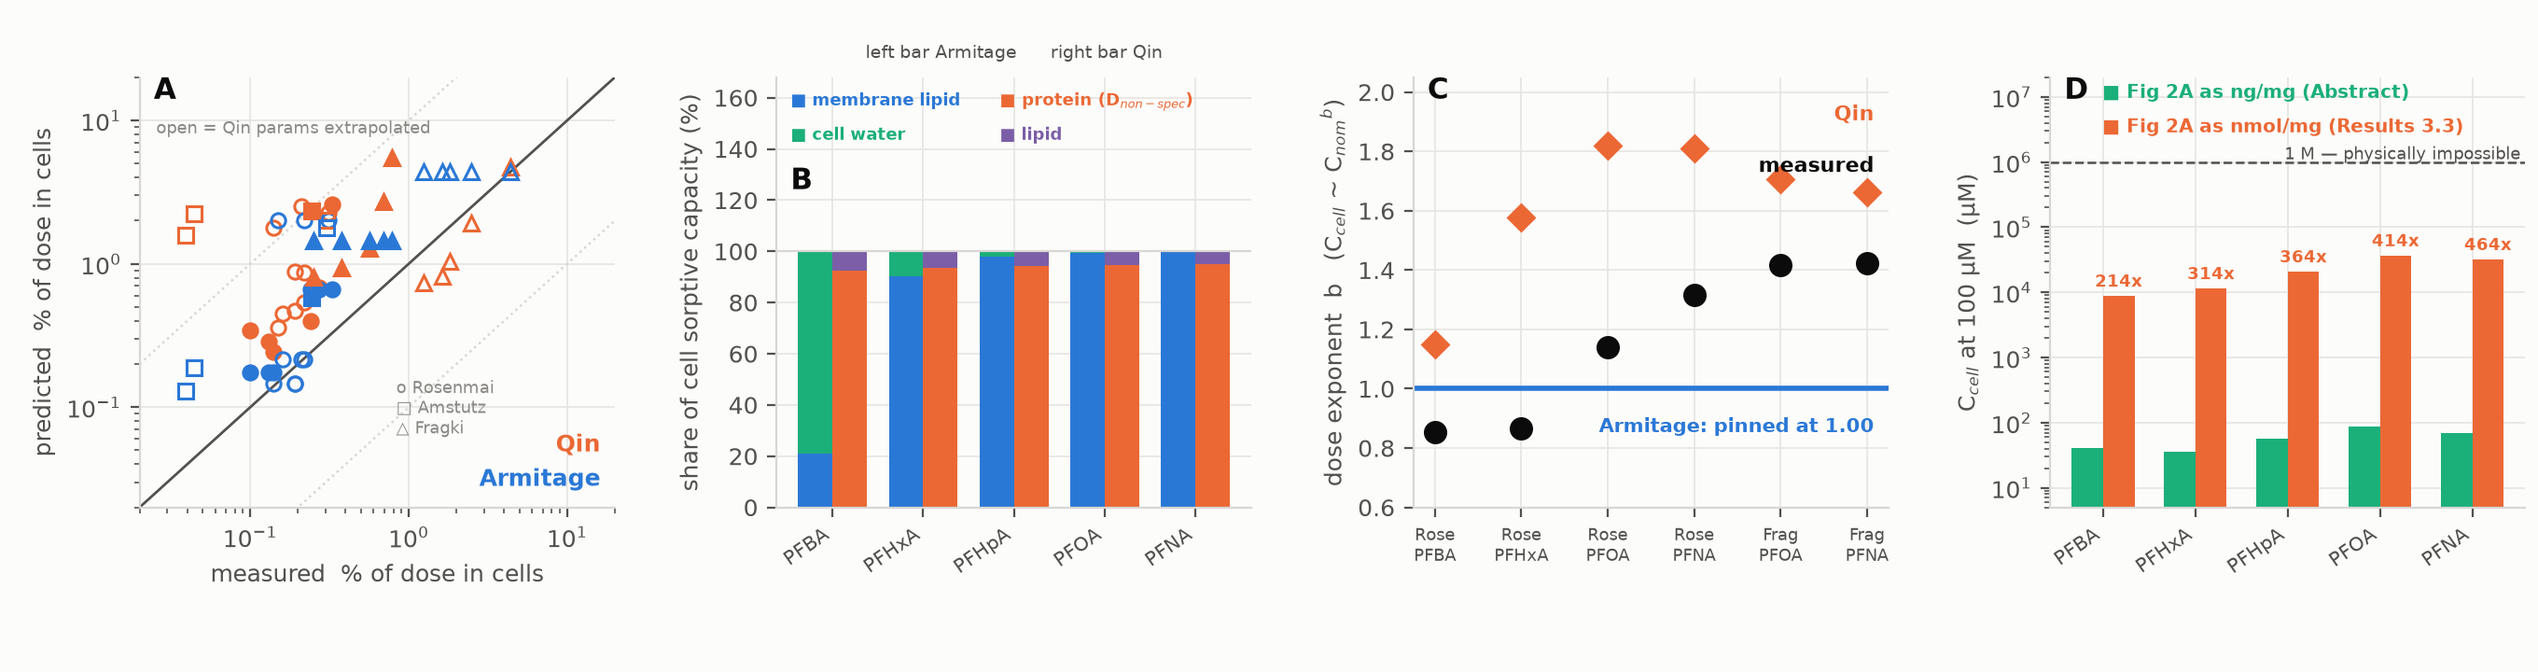
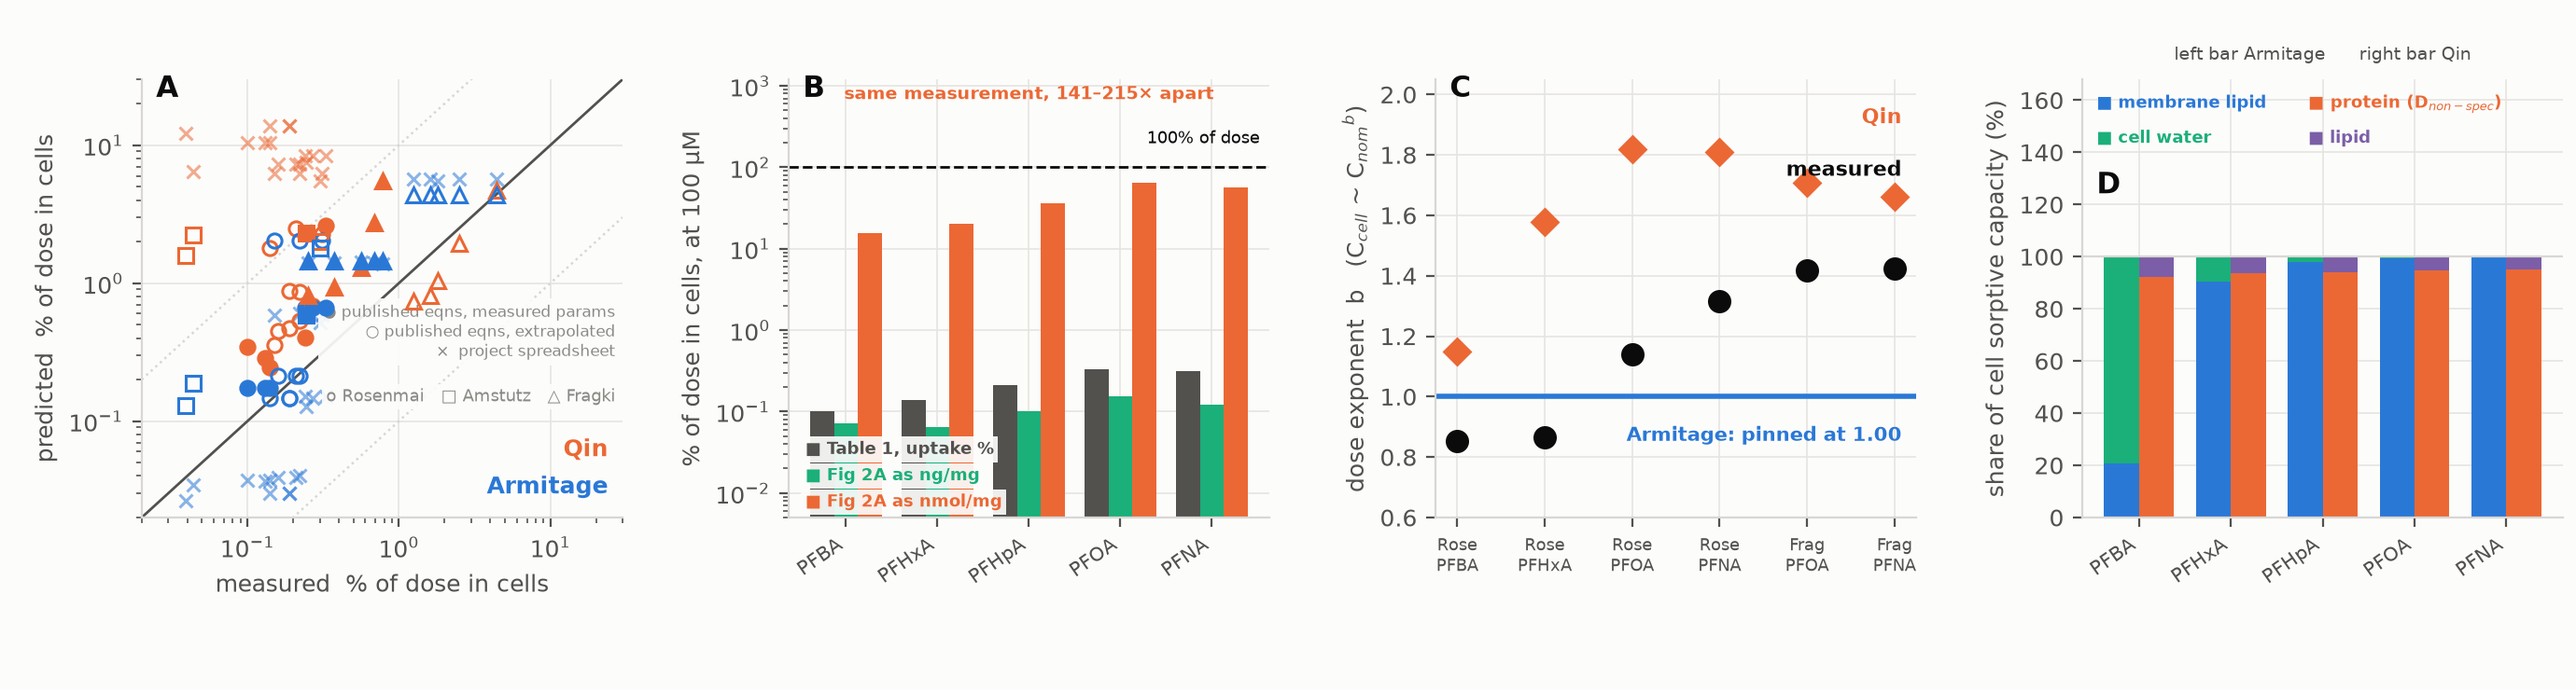
Rebuild figure 10 on the fraction-of-dose axis
Fraction of dose in cells is the axis to discriminate the models on: every
source agrees on protein per cell (Armitage AREc2 694 pg, project sheet
675 pg) while disagreeing 3.3x on cell volume, and all three datasets report
per mg protein, so the fraction is insensitive to that and C_cell carries all
of it.

Panels: (A) measured vs predicted fraction, with both this repo's
implementation of the published equations and the project spreadsheet's values
on one axis; (B) Rosenmai's Table 1 uptake percentages against its Fig 2A
values read both ways; (C) the dose exponent; (D) where each model puts the
PFAS inside the cell.

Converting the spreadsheet's nmol/mg columns with the agreed 675 pg protein
per cell, over 29 points: its Armitage is essentially unbiased (0.90x bias,
2.86x absolute error) and runs 0.39x of the published-equation version, so the
two bracket the data. Its Qin has bias equal to absolute error at 57x - a pure
scale error. On the fraction axis that reads as 6-82% of the dose inside cells
occupying 0.18% of the well volume, against 0.04-0.33% measured. The two
candidate causes recorded are using D_cell/w as a lumped ratio rather than
composing it from D_SP/w x V_protein,cell + D_lip/w x V_lipid,cell (13x for
PFBA), and dividing by C_nominal rather than C_free.

On this axis Rosenmai's unit problem is internal to one paper and needs no
modelling: reading Fig 2A as nmol/mg contradicts its own Table 1 by 141-215x
[…]

diff --git a/tk_review/scripts/make_mbm_figure.py b/tk_review/scripts/make_mbm_figure.py
@@ -1,16 +1,22 @@
 """
-Figure: Qin 2023 vs Armitage 2021 IV-MBM EQP v2.0, from the PUBLISHED
-equations and each paper's own supplementary parameters.
+Figure: Qin 2023 vs Armitage 2021 IV-MBM EQP v2.0 on the FRACTION-OF-DOSE axis.
 
-  A  measured vs predicted fraction of dose in cells -- the axis that does not
-     depend on the 3.3x disagreement about cell VOLUME
-  B  where each model puts the PFAS inside the cell: Qin in protein, Armitage
-     in membrane lipid (or, at the short end, in cell water)
-  C  dose exponent b in C_cell ~ C_nom^b.  Armitage is pinned at 1.00
-  D  Rosenmai's cell-concentration axis read two ways
+Fraction of dose in cells is the axis to discriminate models on. Every source
+agrees on protein per cell (Armitage AREc2 694 pg, project sheet 675 pg) and
+disagrees 3.3x on cell VOLUME (10 pL vs 3.04 pL). All three datasets report per
+mg protein, so the fraction is insensitive to that disagreement and C_cell
+carries all of it.
+
+  A  measured vs predicted fraction -- this repo's implementation of the
+     published equations, and the project spreadsheet's, on one axis
+  B  Rosenmai's internal contradiction, on the same unit-free axis: its Table 1
+     uptake percentages against its Fig 2A values read both ways
+  C  dose exponent b in C_cell ~ C_nom^b; Armitage is pinned at 1.00
+  D  where each model puts the PFAS inside the cell
 
 Run:  python3 tk_review/scripts/make_mbm_figure.py
 """
+import csv
 import math
 import os
 import sys
@@ -26,6 +32,7 @@ import mbm_published_equations as P
 import mbm_qin_vs_armitage as Q
 
 FIGS = os.path.join(os.path.dirname(HERE), "figures")
+DB = os.path.join(os.path.dirname(HERE), "db")
 BLUE, ORANGE, AQUA, PURPLE = "#2a78d6", "#eb6834", "#1baf7a", "#7b5ea7"
 SURFACE, INK, INK2, MUTED = "#fcfcfb", "#0b0b0b", "#52514e", "#8a8984"
 GRID, RULE = "#e6e5e1", "#d8d7d3"
@@ -40,6 +47,7 @@ ORDER = [c[0] for c in Q.COMPOUNDS]
 NCF = {c[0]: c[2] for c in Q.COMPOUNDS}
 MW = {c[0]: c[3] for c in Q.COMPOUNDS}
 MARK = {"Rosenmai": "o", "Amstutz": "s", "Fragki": "^"}
+PG_PROTEIN_PER_CELL = 675e-12 * 1e3        # mg; Armitage AREc2 gives 694 pg
 
 
 def lkow(c):
@@ -56,14 +64,31 @@ def slope(pairs):
            (n * sum(v * v for v in lx) - sx ** 2)
 
 
-def main():
-    fig, (axA, axB, axC, axD) = plt.subplots(1, 4, figsize=(13.6, 3.6))
+def sheet_rows():
+    """Project spreadsheet, nmol/mg protein -> fraction of nominal dose."""
+    path = os.path.join(DB, "mbm_project_sheet.csv")
+    out = []
+    for r in csv.DictReader(open(path)):
+        st, cp, d = r["study"], r["compound"], float(r["Ctest_uM"])
+        a = P.ASSAYS[st]
+        mg = a["cells"] * PG_PROTEIN_PER_CELL
+        dose_nmol = d * a["v_uL"] * 1e-6 * 1000
+        f = lambda v: float(v) * mg / dose_nmol
+        out.append(dict(study=st, compound=cp, dose=d,
+                        qin=f(r["Ccell_qin_nmolmg_sheet"]),
+                        arm=f(r["Ccell_arm_nmolmg_sheet"])))
+    return out
 
-    # ---- A ----
-    lo, hi = 2e-2, 2e1
+
+def main():
+    fig, (axA, axB, axC, axD) = plt.subplots(1, 4, figsize=(13.8, 3.7))
+
+    # ---------------- A: measured vs predicted fraction ----------------
+    lo, hi = 2e-2, 3e1
     axA.plot([lo, hi], [lo, hi], "-", color=INK2, lw=1.0, zorder=2)
-    for f, lab in ((10, "10x"), (0.1, "0.1x")):
+    for f in (10, 0.1):
         axA.plot([lo, hi], [lo * f, hi * f], ":", color=RULE, lw=0.9, zorder=1)
+    meas = {}
     for st, a in P.ASSAYS.items():
         V = P.volumes(a)
         for c in ORDER:
@@ -71,62 +96,71 @@ def main():
                 m = P.measured_x_cell(st, c, d, V, a)
                 if m is None:
                     continue
+                meas[(st, c, d)] = m
                 op = Q.qin_params(c, NCF[c])["source"] != "measured"
                 axA.plot(m * 100, P.qin_run(c, d, V)["x_cell"] * 100, MARK[st],
                          ms=5.5, mew=1.1, mfc="none" if op else ORANGE,
-                         mec=ORANGE, zorder=3)
+                         mec=ORANGE, zorder=4)
                 axA.plot(m * 100, P.armitage_run(c, lkow(c), d, V)["x_cell"] * 100,
-                         MARK[st], ms=5.5, mew=1.1,
-                         mfc="none" if op else BLUE, mec=BLUE, zorder=3)
+                         MARK[st], ms=5.5, mew=1.1, mfc="none" if op else BLUE,
+                         mec=BLUE, zorder=4)
+    for r in sheet_rows():
+        m = meas.get((r["study"], r["compound"], r["dose"]))
+        if m is None:
+            continue
+        axA.plot(m * 100, r["qin"] * 100, "x", ms=5, mew=1.1, color=ORANGE,
+                 alpha=0.55, zorder=3)
+        axA.plot(m * 100, r["arm"] * 100, "x", ms=5, mew=1.1, color=BLUE,
+                 alpha=0.55, zorder=3)
     axA.set_xscale("log"); axA.set_yscale("log")
     axA.set_xlim(lo, hi); axA.set_ylim(lo, hi)
     axA.set_xlabel("measured  % of dose in cells")
     axA.set_ylabel("predicted  % of dose in cells")
-    axA.text(0.03, 0.95, "A", transform=axA.transAxes, fontsize=11, fontweight="bold")
-    axA.text(0.97, 0.13, "Qin", transform=axA.transAxes, ha="right",
+    axA.text(0.03, 0.96, "A", transform=axA.transAxes, fontsize=11, fontweight="bold")
+    axA.text(0.97, 0.14, "Qin", transform=axA.transAxes, ha="right",
              color=ORANGE, fontsize=9, fontweight="bold")
-    axA.text(0.97, 0.05, "Armitage", transform=axA.transAxes, ha="right",
+    axA.text(0.97, 0.055, "Armitage", transform=axA.transAxes, ha="right",
              color=BLUE, fontsize=9, fontweight="bold")
-    axA.text(0.035, 0.90, "open = Qin params extrapolated",
-             transform=axA.transAxes, fontsize=6.4, color=MUTED, va="top")
-    axA.text(0.54, 0.30, "o Rosenmai\n□ Amstutz\n△ Fragki",
-             transform=axA.transAxes, fontsize=6.4, color=MUTED, va="top")
+    axA.text(0.985, 0.49,
+             "● published eqns, measured params\n"
+             "○ published eqns, extrapolated\n"
+             "×  project spreadsheet",
+             transform=axA.transAxes, ha="right", fontsize=6.3,
+             color=MUTED, va="top", bbox=dict(facecolor=SURFACE, edgecolor="none", pad=1.6, alpha=0.92))
+    axA.text(0.985, 0.295, "o Rosenmai   □ Amstutz   △ Fragki",
+             transform=axA.transAxes, ha="right", fontsize=6.4,
+             color=MUTED, va="top", bbox=dict(facecolor=SURFACE, edgecolor="none", pad=1.6, alpha=0.92))
 
-    # ---- B ----
-    x = np.arange(len(ORDER))
-    w = 0.38
-    V = P.volumes(P.ASSAYS["Rosenmai"]); comp = V["comp"]
+    # ---------------- B: Rosenmai against itself ----------------
+    mg = P.ASSAYS["Rosenmai"]["cells"] * PG_PROTEIN_PER_CELL
+    Vb = 3e-3
+    xs = np.arange(len(ORDER))
+    w = 0.26
     for i, c in enumerate(ORDER):
-        a = P.armitage_D(lkow(c), comp)
-        ml = comp["ml"] * a["Dmw"]; wa = comp["water"]
-        ot = comp["sl"] * a["Dow"] + P.P_NLOM * comp["prot"] * a["Dow"]
-        t = ml + wa + ot
-        b = 0.0
-        for frac, col in ((ml / t, BLUE), (wa / t, AQUA), (ot / t, MUTED)):
-            axB.bar(i - w / 2, frac * 100, w, bottom=b * 100, color=col, lw=0); b += frac
-        Db, Ds, Dl, p = P.qin_D(c, 1.0)
-        qp = Ds * comp["prot"]; ql = Dl * (comp["sl"] + comp["ml"]); qt = qp + ql
-        b = 0.0
-        for frac, col in ((qp / qt, ORANGE), (ql / qt, PURPLE)):
-            axB.bar(i + w / 2, frac * 100, w, bottom=b * 100, color=col, lw=0); b += frac
-    axB.set_xticks(x); axB.set_xticklabels(ORDER, rotation=35, ha="right", fontsize=7.5)
-    axB.set_ylabel("share of cell sorptive capacity (%)")
-    axB.set_ylim(0, 168)
-    axB.axhline(100, color=RULE, lw=0.8)
-    axB.text(0.03, 0.74, "B", transform=axB.transAxes, fontsize=11, fontweight="bold")
-    axB.text(0.5, 1.045, "left bar Armitage      right bar Qin", transform=axB.transAxes,
-             ha="center", fontsize=7, color=INK2)
-    for lab, col, xx, yy in (("membrane lipid", BLUE, 0.03, 0.965),
-                             ("cell water", AQUA, 0.03, 0.885),
-                             ("protein (D$_{non-spec}$)", ORANGE, 0.47, 0.965),
-                             ("lipid", PURPLE, 0.47, 0.885)):
-        axB.text(xx, yy, "■ " + lab, transform=axB.transAxes,
-                 fontsize=6.6, color=col, fontweight="bold", va="top")
+        f2a = P.ROSENMAI_FIG2A[c][100]
+        dose_nmol = 100 * Vb * 1000
+        axB.bar(i - w, P.ROSENMAI_UPTAKE_PCT[c][100], w, color=INK2, lw=0)
+        axB.bar(i, f2a / MW[c] * mg / dose_nmol * 100, w, color=AQUA, lw=0)
+        axB.bar(i + w, f2a * mg / dose_nmol * 100, w, color=ORANGE, lw=0)
+    axB.axhline(100, color=INK, lw=1.0, ls="--")
+    axB.text(0.98, 0.845, "100% of dose", transform=axB.transAxes, ha="right",
+             va="bottom", fontsize=6.5, color=INK)
+    axB.set_yscale("log"); axB.set_ylim(5e-3, 1.2e3)
+    axB.set_xticks(xs); axB.set_xticklabels(ORDER, rotation=35, ha="right", fontsize=7.5)
+    axB.set_ylabel("% of dose in cells, at 100 µM")
+    axB.text(0.03, 0.96, "B", transform=axB.transAxes, fontsize=11, fontweight="bold")
+    for lab, col, yy in (("Table 1, uptake %", INK2, 0.145),
+                         ("Fig 2A as ng/mg", AQUA, 0.085),
+                         ("Fig 2A as nmol/mg", ORANGE, 0.025)):
+        axB.text(0.035, yy, "■ " + lab, transform=axB.transAxes,
+                 fontsize=6.6, color=col, fontweight="bold", bbox=dict(facecolor=SURFACE, edgecolor="none", pad=1.6, alpha=0.92))
+    axB.text(0.5, 0.955, "same measurement, 141–215× apart",
+             transform=axB.transAxes, ha="center", fontsize=6.8, color=ORANGE,
+             fontweight="bold")
 
-    # ---- C ----
+    # ---------------- C: dose exponent ----------------
     series = [("Rosenmai", "PFBA"), ("Rosenmai", "PFHxA"), ("Rosenmai", "PFOA"),
               ("Rosenmai", "PFNA"), ("Fragki", "PFOA"), ("Fragki", "PFNA")]
-    xs = np.arange(len(series))
     axC.axhline(1.0, color=BLUE, lw=2.0, zorder=2)
     for i, (st, c) in enumerate(series):
         a = P.ASSAYS[st]; V = P.volumes(a); ds = a["doses"]
@@ -135,11 +169,11 @@ def main():
         q = [(d, P.qin_run(c, d, V)["C_cell"]) for d in ds]
         axC.plot(i, slope(m), "o", ms=8, mfc=INK, mec=INK, zorder=4)
         axC.plot(i, slope(q), "D", ms=7, mfc=ORANGE, mec=ORANGE, zorder=3)
-    axC.set_xticks(xs)
+    axC.set_xticks(range(len(series)))
     axC.set_xticklabels([s[0][:4] + "\n" + s[1] for s in series], fontsize=6.6)
     axC.set_ylabel("dose exponent  b   (C$_{cell}$ ~ C$_{nom}$$^b$)")
     axC.set_ylim(0.6, 2.05)
-    axC.text(0.03, 0.95, "C", transform=axC.transAxes, fontsize=11, fontweight="bold")
+    axC.text(0.03, 0.96, "C", transform=axC.transAxes, fontsize=11, fontweight="bold")
     axC.text(0.97, 0.90, "Qin", transform=axC.transAxes, ha="right",
              color=ORANGE, fontsize=8, fontweight="bold")
     axC.text(0.97, 0.78, "measured", transform=axC.transAxes, ha="right",
@@ -147,36 +181,41 @@ def main():
     axC.text(0.97, 0.175, "Armitage: pinned at 1.00", transform=axC.transAxes,
              ha="right", color=BLUE, fontsize=7.5, fontweight="bold")
 
-    # ---- D ----
-    Vr = P.volumes(P.ASSAYS["Rosenmai"])
-    mgp = Vr["Vcells"] * 1000 * P.mg_protein_per_mL_cell(P.ASSAYS["Rosenmai"])
-    w = 0.34
+    # ---------------- D: inside the cell ----------------
+    V = P.volumes(P.ASSAYS["Rosenmai"]); comp = V["comp"]
+    w = 0.38
     for i, c in enumerate(ORDER):
-        f2a = P.ROSENMAI_FIG2A[c][100]
-        good = f2a / MW[c] * P.mg_protein_per_mL_cell(P.ASSAYS["Rosenmai"])
-        bad = good * MW[c]
-        axD.bar(i - w / 2, good, w, color=AQUA, lw=0)
-        axD.bar(i + w / 2, bad, w, color=ORANGE, lw=0)
-        axD.text(i + w / 2, bad * 1.4, "%.0fx" % MW[c], ha="center",
-                 fontsize=6.5, color=ORANGE, fontweight="bold")
-    axD.set_yscale("log"); axD.set_ylim(5, 2e7)
-    axD.axhline(1e6, color=INK2, lw=0.9, ls="--")
-    axD.text(0.99, 0.80, "1 M — physically impossible", transform=axD.transAxes,
-             ha="right", va="bottom", fontsize=6.5, color=INK2)
+        a = P.armitage_D(lkow(c), comp)
+        ml = comp["ml"] * a["Dmw"]; wa = comp["water"]
+        ot = comp["sl"] * a["Dow"] + P.P_NLOM * comp["prot"] * a["Dow"]
+        t = ml + wa + ot
+        b = 0.0
+        for frac, col in ((ml / t, BLUE), (wa / t, AQUA), (ot / t, MUTED)):
+            axD.bar(i - w / 2, frac * 100, w, bottom=b * 100, color=col, lw=0); b += frac
+        Db, Ds, Dl, p = P.qin_D(c, 1.0)
+        qp = Ds * comp["prot"]; ql = Dl * (comp["sl"] + comp["ml"]); qt = qp + ql
+        b = 0.0
+        for frac, col in ((qp / qt, ORANGE), (ql / qt, PURPLE)):
+            axD.bar(i + w / 2, frac * 100, w, bottom=b * 100, color=col, lw=0); b += frac
+    axD.axhline(100, color=RULE, lw=0.8)
     axD.set_xticks(range(len(ORDER)))
     axD.set_xticklabels(ORDER, rotation=35, ha="right", fontsize=7.5)
-    axD.set_ylabel("C$_{cell}$ at 100 µM  (µM)")
-    axD.text(0.03, 0.95, "D", transform=axD.transAxes, fontsize=11, fontweight="bold")
-    axD.text(0.11, 0.985, "■ Fig 2A as ng/mg (Abstract)", transform=axD.transAxes,
-             color=AQUA, fontsize=7.2, fontweight="bold", va="top")
-    axD.text(0.11, 0.905, "■ Fig 2A as nmol/mg (Results 3.3)",
-             transform=axD.transAxes, color=ORANGE, fontsize=7.2,
-             fontweight="bold", va="top")
+    axD.set_ylabel("share of cell sorptive capacity (%)")
+    axD.set_ylim(0, 168)
+    axD.text(0.03, 0.74, "D", transform=axD.transAxes, fontsize=11, fontweight="bold")
+    axD.text(0.5, 1.045, "left bar Armitage      right bar Qin",
+             transform=axD.transAxes, ha="center", fontsize=7, color=INK2)
+    for lab, col, xx, yy in (("membrane lipid", BLUE, 0.03, 0.965),
+                             ("cell water", AQUA, 0.03, 0.885),
+                             ("protein (D$_{non-spec}$)", ORANGE, 0.47, 0.965),
+                             ("lipid", PURPLE, 0.47, 0.885)):
+        axD.text(xx, yy, "■ " + lab, transform=axD.transAxes,
+                 fontsize=6.6, color=col, fontweight="bold", va="top")
 
     for ax in (axA, axB, axC, axD):
         ax.grid(True, which="major", color=GRID, lw=0.6, zorder=0)
         ax.set_axisbelow(True)
-    fig.subplots_adjust(left=0.055, right=0.995, bottom=0.245, top=0.885, wspace=0.34)
+    fig.subplots_adjust(left=0.055, right=0.995, bottom=0.25, top=0.885, wspace=0.345)
     out = os.path.join(FIGS, "fig10_mbm_qin_vs_armitage.png")
     fig.savefig(out, dpi=200)
     print("wrote", out)

diff --git a/tk_review/report/MBM_Qin_vs_Armitage.md b/tk_review/report/MBM_Qin_vs_Armitage.md
@@ -211,3 +211,55 @@ number, the ratio is insensitive to it.
 - AREc2's water content of 0.944 is high for a cell and its protein of 0.0514
   low; it is used because it is the composition Armitage's own model was run
   with for a HepG2-derived line, not because it is independently plausible.
+
+## 10. The fraction-of-dose axis, and the project spreadsheet on it
+
+Figure 10 is now built on fraction of dose in cells (§7). Converting the
+spreadsheet's nmol/mg columns with the agreed 675 pg protein per cell:
+
+| over 29 points | bias | \|error\| |
+|---|---|---|
+| project sheet Armitage | **0.90×** | 2.86× |
+| published-equation Armitage | 2.33× | **2.42×** |
+| published-equation Qin | 3.43× | 3.95× |
+| project sheet Qin | **57×** | 57× |
+
+The sheet's Armitage is essentially unbiased and runs 0.39× of the
+published-equation version on average — the two bracket the data.
+
+The sheet's Qin is a different matter. Its bias and its absolute error are
+equal to four figures, so every point is high by nearly the same factor: a
+scale error, not scatter. On the fraction axis the failure is obvious —
+it places **6–82% of the dose inside cells that occupy 0.18% of the well
+volume**, where Rosenmai and Amstutz both measure 0.04–0.33%. Two candidates,
+in order of size:
+
+1. **D_cell/w used as a lumped ratio** rather than composed as
+   `D_SP/w × V_protein,cell + D_lip/w × V_lipid,cell`. For PFBA the lumped
+   route gives 31 per litre of whole cell against the composed route's 2.4 —
+   13×.
+2. **Dividing by C_nominal rather than C_free.** Qin's ratios are defined
+   against the freely dissolved concentration. Small for PFBA (~1.25×) but
+   large by PFOA, where albumin holds 89% of the dose.
+
+Neither is visible in the sheet's output columns, so these are checks to run
+rather than a decomposition.
+
+### Rosenmai on the fraction axis
+
+This is the cleanest form of the unit problem, because the axis is unit-free
+and the comparison is internal to one paper. At 100 µM:
+
+| | Table 1 uptake | Fig 2A as ng/mg | Fig 2A as nmol/mg |
+|---|---|---|---|
+| PFBA | 0.100% | 0.072% | 15.4% |
+| PFHxA | 0.140% | 0.064% | 20.1% |
+| PFHpA | 0.210% | 0.100% | 36.3% |
+| PFOA | 0.330% | 0.155% | 64.2% |
+| PFNA | 0.310% | 0.121% | 56.0% |
+
+Across all 15 rows the nmol/mg reading contradicts Rosenmai's own uptake table
+by **141–215×**, and would put 15–64% of the dose inside 0.18% of the well
+volume. The ng/mg reading sits within 1.4–2.1× of the uptake table, the
+residual being the unstated working volume (§6b implies ~0.7 mL/well against
+the 1 mL assumed).
